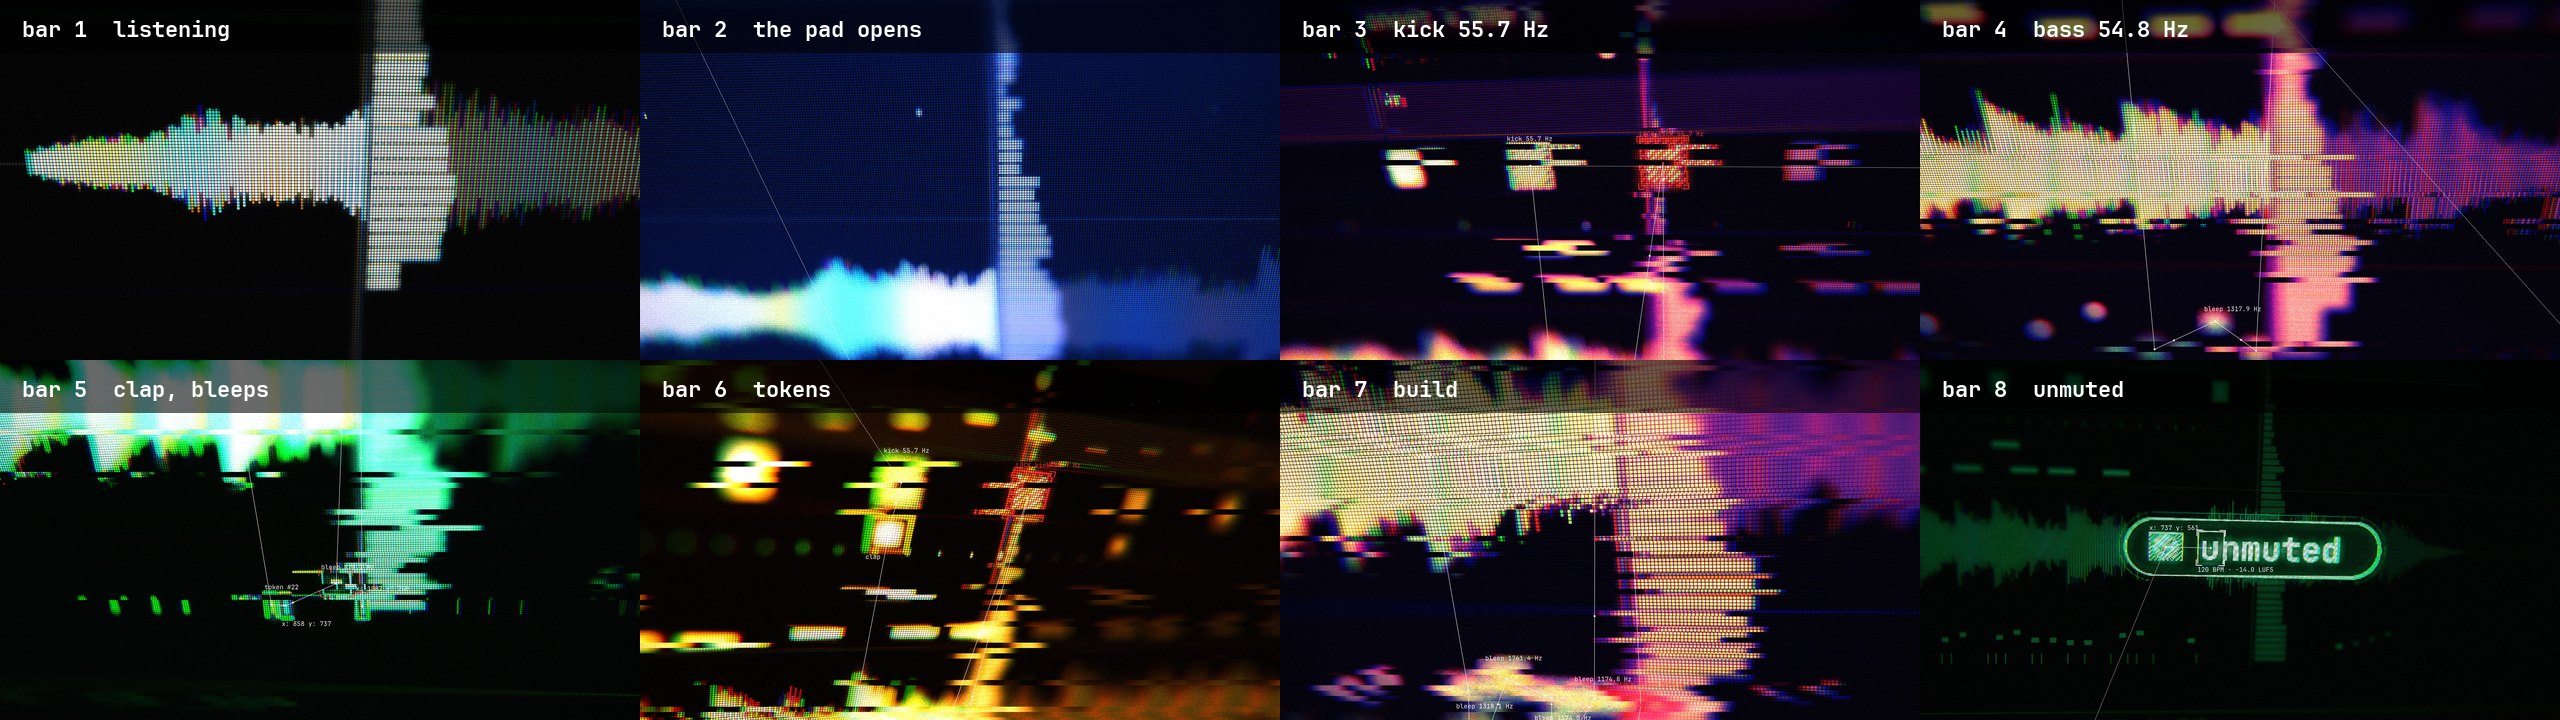
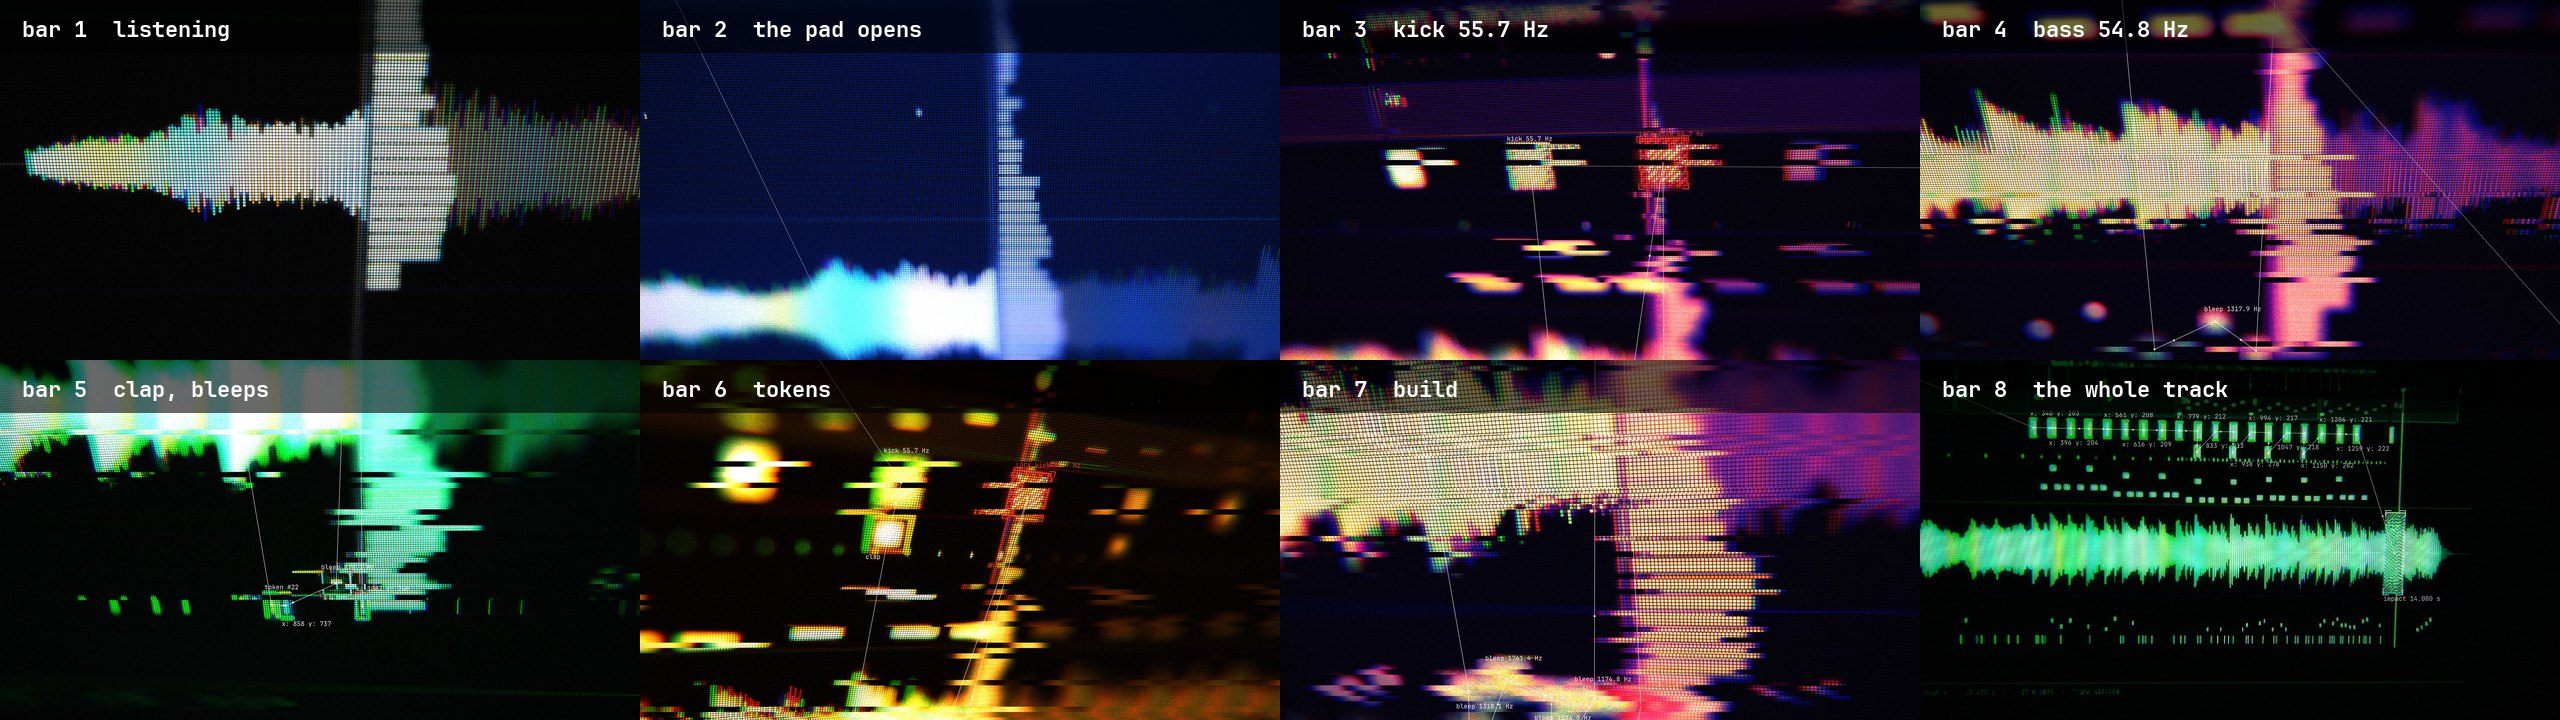
docs: v1.1.0, an ending made of data (README, PROMPT, spec, media)

diff --git a/tools/readme_media.py b/tools/readme_media.py
@@ -39,7 +39,7 @@ FLOW = [
     (270, "bar 5  clap, bleeps"),
     (330, "bar 6  tokens"),
     (390, "bar 7  build"),
-    (452, "bar 8  unmuted"),
+    (468, "bar 8  the whole track"),
 ]
 
 

diff --git a/README.md b/README.md
@@ -14,7 +14,7 @@ audio. All of it renders with [fframes](https://github.com/dmtrKovalenko/fframes
 [![License: MIT](https://img.shields.io/badge/license-MIT-2ea44f)](LICENSE)
 
 <a href="https://github.com/mrsarac/ff-unmute/releases/download/v1.0.0/unmute.mp4">
-  <img src="docs/media/hero.webp" width="800" alt="ff-unmute: a tilted close-up of a DAW timeline; the playhead sweeps a real waveform while tracker boxes lock onto kicks, bleeps and tokens; it ends on a green unmuted pill">
+  <img src="docs/media/hero.webp" width="800" alt="ff-unmute: a tilted close-up of a DAW timeline; the playhead sweeps a real waveform while tracker boxes lock onto kicks, bleeps and tokens; it ends on the whole track in one frame">
 </a>
 
 **[🔊 Full 1080p with sound](https://github.com/mrsarac/ff-unmute/releases/download/v1.0.0/unmute.mp4)** (the preview above is silent) ·
@@ -47,6 +47,10 @@ is measured. The picture is cut, lit and tracked from those measurements.
   draws the spectrum strip next to the playhead.
 - **One shot, no cuts.** The camera flies from the waveform to the kick lane, the bass and the
   agent lane, then pulls back. Palettes blend into each other over half a second.
+- **An ending made of its own data.** There is no closing card. After the impact the view
+  zooms out until the whole track fits the screen, so the last frame is this track's waveform,
+  notes and locks. The one marker that stays bright is picked from the measurements: the
+  loudest moment (`loudest -9.9 dBFS @ 4.500 s`). Another score ends on another picture.
 - **Measured, not copied.** The agent's markers on the ruler (`onset 4.000 s`,
   `tempo 120.0 BPM`, `bass 54.8 Hz`, `tokens 54`, `-14.0 LUFS`) come from `music/analyze.py`.
   The analysis listens to the rendered stems, not to the score.
@@ -139,6 +143,13 @@ python3 -I tools/readme_media.py                               # rebuild the ima
   [ff-tracking](https://github.com/mrsarac/ff-tracking) if you want the terminal instead of the DAW.
 - **Or change the prompt.** [`docs/PROMPT.md`](docs/PROMPT.md) is the prompt that makes this
   video with Claude Code. Edit the brief and get your own version.
+
+## Changelog
+
+- **v1.1.0:** the ending is drawn from the data (zoom out to the whole track, last marker
+  picked from the measurements) instead of an "✓ unmuted" pill. The music is bit-identical.
+  The video on X is v1.0.0.
+- **v1.0.0:** first release.
 
 ## Notes from the build
 

diff --git a/docs/PROMPT.md b/docs/PROMPT.md
@@ -46,7 +46,12 @@ PICTURE: A DAW THAT FOLLOWS ITS PLAYHEAD
   from frame.visualize_audio_frame (S1024, Hann; bin k = k*sr/1024, group into log bands);
   markers on the ruler that type themselves when the playhead reaches them, carrying the
   measured values ("onset 4.000 s", "kick 55.7 Hz", "tempo 120.0 BPM", "-14.0 LUFS"); clips
-  bright once played. The timeline stops 0.35 s after the impact and dims; a "✓ unmuted" pill.
+  bright once played.
+- No fixed closing card: every video must end on its own data. The timeline stops 0.35 s after
+  the impact, then the view zooms out (px per second and the playhead blend to a full-track
+  layout) until the whole track fits the screen; merge waveform columns so they stay solid;
+  boxes stay on every kick, clap and the impact; the FFT strip fades; markers shrink except
+  one picked from the data (the loudest moment from the per-frame RMS).
 - Tracker: a box on every event within 0.55 s behind the playhead; kicks, claps and the impact
   turn red for 2 frames on their exact frame. Labels carry measured values.
 - lens: one SkSL shader films flat.mp4 (bound as iChannel0): tear, perspective (ray vs tilted

diff --git a/docs/superpowers/specs/2026-10-09-unmute-design.md b/docs/superpowers/specs/2026-10-09-unmute-design.md
@@ -88,3 +88,11 @@ the concept, not the picture. The picture was rebuilt, the music stayed bit-iden
 - **Ending:** the timeline stops 0.35 s after the impact and dims; "✓ unmuted" pill.
 
 The structure table above describes the first draft; `hud/src/lib.rs` describes what ships.
+
+## Revision, 2026-10-10 (v1.1.0): an ending made of data
+
+The owner rejected the closing pill: both videos ended on the same kind of button, and every
+video made with this pipeline should end differently, from its own data. The ending is now a
+zoom-out to the whole track (waveform, notes, the boxes on every kick, clap and the impact),
+and the only bright marker is the loudest moment measured from the per-frame RMS
+(`loudest -9.9 dBFS @ 4.500 s` for this track). ff-tracking keeps its "Done" pill.
